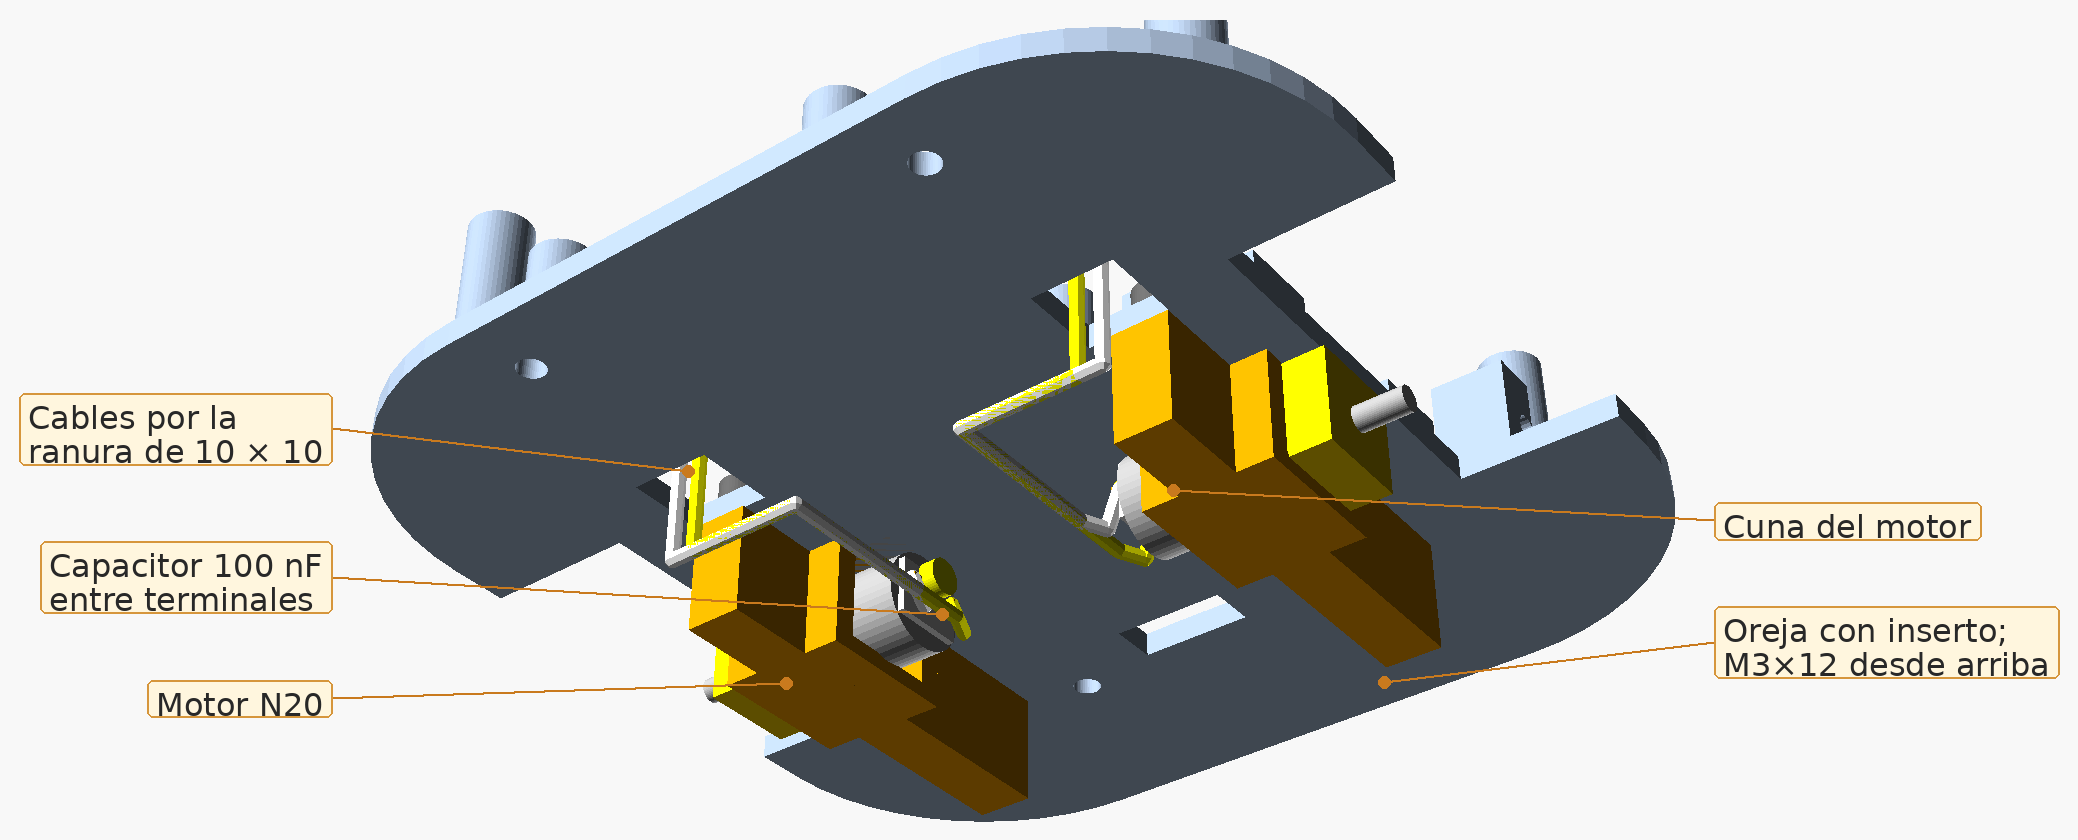
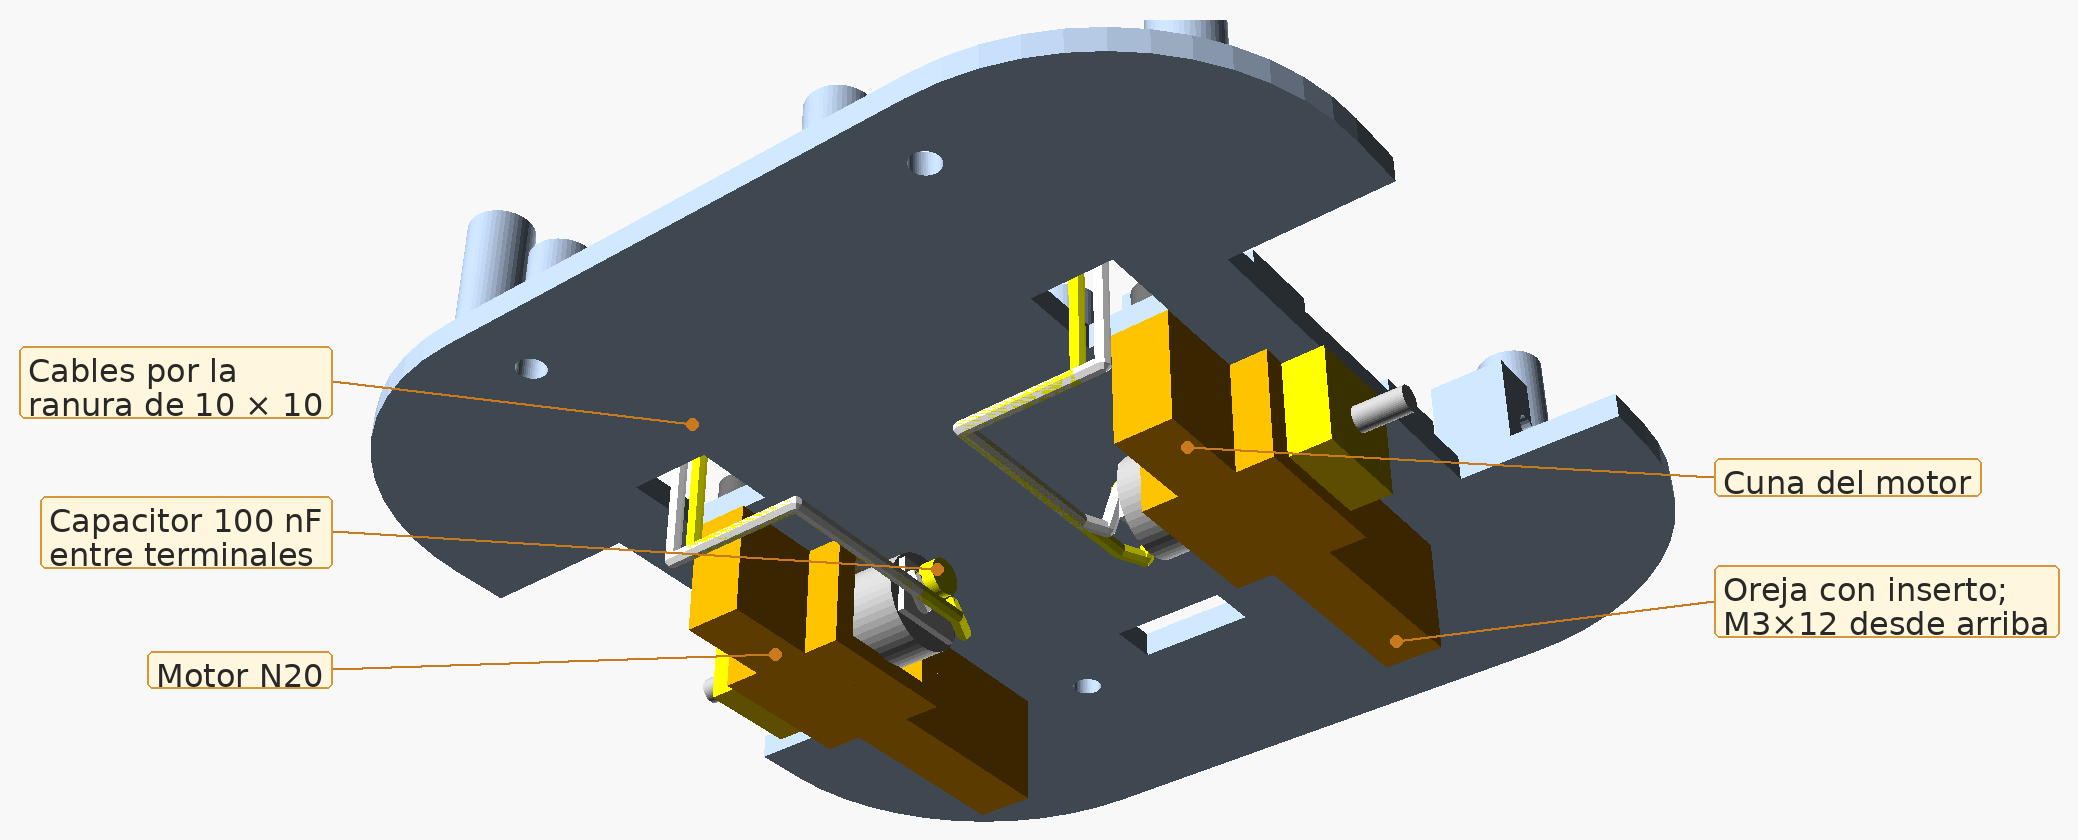
renders: etiquetas en progreso para las medidas nuevas
Claude-Session: https://claude.ai/code/session_017eD8xWXnvZZ2v6m3n2fvhH

diff --git a/chasis/renders.py b/chasis/renders.py
@@ -31,11 +31,29 @@ ARRIBA = (0, -25, 430, 0, 0, 60)
 LADO = (330, 0, 60, 0, 0, 45)
 
 # Puntos de referencia (mm, coordenadas del robot)
-Z1, ESP, SEP = 22, 3, 35
+D_RUEDA, A_RUEDA, MOT_L, MOT_H = 45, 17, 26.11, 11.94
+EJE_Z = D_RUEDA / 2
+ESP, SEP = 3, 35
+Z1 = EJE_Z + MOT_H / 2
 Z2 = Z1 + ESP + SEP
-ZP = Z2 + ESP + 9.5
+ZS = Z2 + ESP                                   # cara de arriba del piso 2
+ZP = ZS + 9.5
+UNO_Z = ZS + 6                                  # cara de abajo del PCB del UNO
+X_RUEDA_INT = 60 - A_RUEDA
+X_RUEDA = X_RUEDA_INT + A_RUEDA / 2             # centro de la rueda en X
+X_MOT_EXT = X_RUEDA_INT - 1.5
+X_MOT = X_MOT_EXT - MOT_L / 2
+X_MOT_INT = X_MOT_EXT - MOT_L
+CUNA_Z = Z1 - MOT_H - 2 + 0.3                   # fondo de la cuna del motor
+TOF_LADO = (43, 40)
+TOF_ATRAS = 0.3 + 2.5 + 14                      # centro de la ranura al final del dupont
+POSTE_F = (34, 55)                              # columna delantera derecha del piso 1
+BAT_XB = 70 / 2 + 0.2 + 1                       # tope de la bateria
+T_Z = Z1 + ESP + 19                             # conector T: fondo (sobre la bateria)
 L298_Y = -37.5
-BORNE_Z = Z1 + ESP + 5 + 1.6 + 4
+L298_Z = Z1 + ESP + 5                           # cara de abajo del PCB del L298N
+BORNE_Z = L298_Z + 1.6 + 4
+LOG_Z = L298_Z + 11                             # punta de los pines del header de logica
 XP = 35 / 2 + 1.1
 
 
@@ -67,7 +85,7 @@ def pin(n):
 
 
 def shield_z(placa):
-    return 70.6 + (11.5 if placa == "uno_r3" else 8.5)
+    return UNO_Z + 1.6 + (11.5 if placa == "uno_r3" else 8.5)
 
 
 def zhd(placa):
@@ -89,78 +107,78 @@ VISTAS = {
     "fig_atras": ({"PASO": 0, "PLACA": "nano"}, ATRAS, []),
     "fig_lado": ({"PASO": 0, "PLACA": "nano"}, LADO, []),
     "paso1": ({"PASO": 1}, ABAJO_ATRAS, [
-        ("Cuna del motor", (26.5, -12, 13), (230, 120)),
-        ("Motor N20", (-30, -6, 14), (-260, 60)),
-        ("Capacitor 100 nF\nentre terminales", (-12.5, 0, 19.5), (-250, -150)),
-        ("Cables por la\nranura de 10 × 10", (-27, -27, 30), (-180, -170)),
-        ("Oreja con inserto;\nM3×12 desde arriba", (26.5, 29, 10.5), (180, -160)),
+        ("Cuna del motor", (X_MOT, -12, CUNA_Z + 2.7), (230, 120)),
+        ("Motor N20", (-(X_MOT + 3.5), -6, CUNA_Z + 3.7), (-260, 60)),
+        ("Capacitor 100 nF\nentre terminales", (-(X_MOT_INT - 2), 0, Z1 - 2.5), (-250, -150)),
+        ("Cables por la\nranura de 10 × 10", (-27, -27, Z1 + ESP + 5), (-180, -170)),
+        ("Oreja con inserto;\nM3×12 desde arriba", (X_MOT, 29, CUNA_Z + 0.2), (180, -160)),
     ]),
     "paso2": ({"PASO": 2}, ABAJO_FRENTE, [
         ("TCS34725: entra deslizando\npor atrás, LED al suelo", (0, 28, 6), (280, 200)),
         ("Capucha (2 M3×8)", (-14, 46, 8), (-300, 140)),
         ("Patín delantero", (0, 48.5, 2.5), (-120, 230)),
         ("Patín trasero (2 M3×8)", (0, -52, 2), (230, -40)),
-        ("Rueda a presión\nen el eje", (-50, 8, 10), (-260, -80)),
+        ("Rueda a presión\nen el eje", (-X_RUEDA, 8, 10), (-260, -80)),
     ]),
     "paso3": ({"PASO": 3}, ATRAS, [
         ("OUT1-OUT2\nmotor izquierdo", (-21.5, -32.5, BORNE_Z), (-260, -40)),
         ("OUT3-OUT4\nmotor derecho", (21.5, -32.5, BORNE_Z), (230, -120)),
-        ("Poste con inserto\n+ M3×8", (18.5, -56, 28), (200, 120)),
-        ("Cables del motor por\nla ranura de su lado", (27, -26, 27), (260, 30)),
-        ("Quita los jumpers\nENA y ENB", (1, -21.5, 41), (-120, -230)),
+        ("Poste con inserto\n+ M3×8", (18.5, -56, L298_Z - 2), (200, 120)),
+        ("Cables del motor por\nla ranura de su lado", (27, -26, Z1 + 5), (260, 30)),
+        ("Quita los jumpers\nENA y ENB", (1, -21.5, LOG_Z), (-120, -230)),
     ]),
-    "det_l298": ({"PIEZA": "det_l298"}, (0, -45, 150, 0, -33, 30), [
+    "det_l298": ({"PIEZA": "det_l298"}, (0, -45, L298_Z + 120, 0, -33, L298_Z), [
         ("12V (batería)", (18, -16, BORNE_Z + 4), (170, -170)),
         ("GND", (13, -16, BORNE_Z + 4), (60, -230)),
         ("5V: no se usa", (8, -16, BORNE_Z + 4), (-60, -260)),
-        ("ENA", (1, -19, 41), (-80, -170)),
-        ("IN1 IN2 IN3 IN4", (-5.3, -19, 41), (-260, -150)),
-        ("ENB", (-11.7, -19, 41), (-300, -60)),
-        ("Jumper 5V-EN:\nse queda", (3.9, -18, 38), (240, -40)),
+        ("ENA", (1, -19, LOG_Z), (-80, -170)),
+        ("IN1 IN2 IN3 IN4", (-5.3, -19, LOG_Z), (-260, -150)),
+        ("ENB", (-11.7, -19, LOG_Z), (-300, -60)),
+        ("Jumper 5V-EN:\nse queda", (3.9, -18, L298_Z + 8), (240, -40)),
         ("OUT1 OUT2", (-21.5, -32.5, BORNE_Z), (-260, 60)),
         ("OUT3 OUT4", (21.5, -32.5, BORNE_Z), (240, 80)),
     ]),
     "paso4": ({"PASO": 4}, FRENTE, [
-        ("Batería 2S sobre velcro", (18, 7, 44), (260, -120)),
-        ("Conector T macho", (-18, 10, 51), (-150, -220)),
-        ("Balanceo (solo para\ncargar)", (-25, 20, 49), (-300, -60)),
-        ("Topes", (33.7, -6.7, 33), (250, 40)),
+        ("Batería 2S sobre velcro", (18, 7, T_Z), (260, -120)),
+        ("Conector T macho", (-18, 10, T_Z + 7), (-150, -220)),
+        ("Balanceo (solo para\ncargar)", (-25, 20, T_Z + 5), (-300, -60)),
+        ("Topes", (BAT_XB, -6.7, Z1 + ESP + 8), (250, 40)),
     ]),
     "paso5": ({"PASO": 5}, FRENTE, [
-        ("VL53L0X frente", (0, 54.5, 30), (230, 160)),
-        ("VL53L0X izquierdo", (-50.5, 34.5, 30), (-230, 130)),
-        ("VL53L0X derecho", (50.5, 34.5, 30), (230, 60)),
-        ("5 dupont (GPIO1 libre),\nantes de meterlo", (0, 50, 35), (-80, 230)),
+        ("VL53L0X frente", (0, 54.5, Z1 + ESP + 5), (230, 160)),
+        ("VL53L0X izquierdo", (-(TOF_LADO[0] + 0.5), TOF_LADO[1], Z1 + ESP + 5), (-230, 130)),
+        ("VL53L0X derecho", (TOF_LADO[0] + 0.5, TOF_LADO[1], Z1 + ESP + 5), (230, 60)),
+        ("5 dupont (GPIO1 libre),\nantes de meterlo", (0, 50, Z1 + ESP + 10), (-80, 230)),
         ("Cables hacia arriba", (23, 33.2, 62), (250, -150)),
     ]),
     "paso6": ({"PASO": 6}, ATRAS, [
-        ("Columna impresa\n(inserto arriba)", (48, -40, 45), (220, 60)),
-        ("Dupont en ENA … ENB", (-5, -19, 47), (-200, -220)),
-        ("Cables hacia arriba", (-5, -3, 62), (120, -230)),
+        ("Columna impresa\n(inserto arriba)", (48, -40, Z1 + 23), (220, 60)),
+        ("Dupont en ENA … ENB", (-5, -19, L298_Z + 17), (-200, -220)),
+        ("Cables hacia arriba", (-5, -3, Z2 + 2), (120, -230)),
     ]),
-    "paso7": ({"PIEZA": "sub_piso2", "PLACA": "nano"}, (60, -170, 230, 0, -12, 70), [
+    "paso7": ({"PIEZA": "sub_piso2", "PLACA": "nano"}, (60, -170, Z2 + 170, 0, -12, Z2 + 10), [
         ("Nano: USB hacia atrás", (-19.9, -52, ZP + 5), (-260, 80)),
         ("Bus 5V (columna 4)", (hx(XP, 1) + 3, hy(13), ZP + 1), (250, 0)),
         ("Bus GND (columna 1)", (hx(XP, 1) + 3, hy(16), ZP + 1), (250, -110)),
         ("Bus SDA (columna 10)", (hx(XP, 1) + 3, hy(7), ZP + 1), (250, 110)),
         ("Bus SCL (columna 7)", (hx(XP, 1) + 3, hy(10), ZP + 1), (250, 50)),
         ("Puentes del Nano\nal bus", (-2, hy(11), ZP + 2), (-60, 260)),
-        ("OLED, pines al fondo", (0, 39.4, Z2 + ESP + 3), (-200, -200)),
-        ("Botón", (-38, 5, Z2 + ESP + 6), (-200, -40)),
-        ("Interruptor", (38, 5, Z2 + ESP + 9), (200, -120)),
-        ("Ranuras de cables", (26.5, 34.5, Z2 + ESP), (220, -200)),
+        ("OLED, pines al fondo", (0, 39.4, ZS + 3), (-200, -200)),
+        ("Botón", (-38, 5, ZS + 6), (-200, -40)),
+        ("Interruptor", (38, 5, ZS + 10), (200, -120)),
+        ("Ranuras de cables", (26.5, TOF_LADO[1], ZS), (220, -200)),
     ]),
     "paso8": ({"PASO": 8, "PLACA": "nano"}, FRENTE, [
         ("Piso 2 armado", (-40, 20, Z2 + ESP), (-230, -120)),
-        ("Cables de sensores\npor las ranuras", (-26.5, 30, Z2 + ESP + 4), (-150, -250)),
-        ("M3×8 en cada\ncolumna", (42, 50, Z2 + ESP + 3), (220, -60)),
+        ("Cables de sensores\npor las ranuras", (-TOF_LADO[0] + TOF_ATRAS + 4, TOF_LADO[1] - 4.5, ZS + 4), (-150, -250)),
+        ("M3×8 en cada\ncolumna", (POSTE_F[0], POSTE_F[1], ZS + 3), (220, -60)),
     ]),
-    "det_arnes": ({"PIEZA": "det_arnes"}, (200, -150, 170, 10, -3, 45), [
-        ("Interruptor: rojo a una pata\nexterior, 2 naranjas al centro", (38, 5, 46), (180, -200)),
-        ("Conector T hembra", (-6, 10, 51), (-200, -180)),
+    "det_arnes": ({"PIEZA": "det_arnes"}, (200, -150, Z1 + 148, 10, -3, Z1 + 23), [
+        ("Interruptor: rojo a una pata\nexterior, 2 naranjas al centro", (38, 5, Z2 - 14), (180, -200)),
+        ("Conector T hembra", (-6, 10, T_Z + 7), (-200, -180)),
         ("Naranja a 12V", (18, -15, BORNE_Z), (60, 200)),
         ("2 negros en GND:\nconector T y Nano", (13, -15, BORNE_Z), (-260, 170)),
-        ("Naranja y negro suben\npor la ranura central", (20, -3, 58), (-160, -260)),
+        ("Naranja y negro suben\npor la ranura central", (20, -3, Z2 - 2), (-160, -260)),
     ]),
     "paso9": ({"PASO": 9, "PLACA": "nano"}, ARRIBA, [
         ("XSHUT → A0 A1 A2", (hx(-XP, 4), pin_nano(4), ZP + 18), (240, -20)),
@@ -169,41 +187,41 @@ VISTAS = {
         ("VIN y GND\n(cable rígido)", (hx(-XP, 4), pin_nano(14), ZP + 3), (-60, -260)),
         ("Sensores → bus", (hx(XP, 2), hy(13), ZP + 17), (240, 60)),
     ]),
-    "paso10": ({"PIEZA": "det_arnes", "UNIDO": "true"}, (-140, 120, 150, -12, 10, 45), [
-        ("Une el conector T", (-12, 10, 51), (200, -180)),
-        ("Interruptor en OFF", (38, 5, 60), (220, 40)),
+    "paso10": ({"PIEZA": "det_arnes", "UNIDO": "true"}, (-140, 120, Z1 + 128, -12, 10, Z1 + 23), [
+        ("Une el conector T", (-12, 10, T_Z + 7), (200, -180)),
+        ("Interruptor en OFF", (38, 5, Z2), (220, 40)),
     ]),
     "det_insertos": ({"PIEZA": "det_insertos"}, (230, -260, 300, 40, 0, 10), [
         ("Columnas: 4", (48, -40, 38), (-200, -120)),
         ("Postes del L298N: 4", (-18.5, -56, 8), (-220, 60)),
-        ("Cunas: 2 c/u", (80, 39, 11.7), (200, -150)),
-        ("Capucha: 2", (107, 60, 20), (200, -40)),
-        ("Patín: 2", (116, -50, 22), (200, 80)),
+        ("Cunas: 2 c/u", (80, 39, 2 + MOT_H - 0.3), (200, -150)),
+        ("Capucha: 2", (107, 60, Z1 - 2), (200, -40)),
+        ("Patín: 2", (116, -50, Z1), (200, 80)),
     ]),
     # ---- UNO R3 / UNO Q: las piezas impresas son las mismas; la Q solo agrega mastil, camara, repisa, hub y clip ----
-    "r3_iso": ({"PLACA": "uno_r3"}, (250, 290, 250, 0, 0, 60), [
-        ("Arduino UNO R3\n(4 M3×8 a insertos)", (34.2, -30, 70), (-250, 180)),
-        ("Proto Shield + mini\nprotoboard: bus I2C", (30, -45, 83), (-250, 160)),
+    "r3_iso": ({"PLACA": "uno_r3"}, (250, 290, Z2 + 190, 0, 0, Z2), [
+        ("Arduino UNO R3\n(4 M3×8 a insertos)", (34.2, -30, UNO_Z + 1), (-250, 180)),
+        ("Proto Shield + mini\nprotoboard: bus I2C", (30, -45, shield_z("uno_r3") + 1), (-250, 160)),
         ("Tiras hembra del shield:\ndupont de L298N y botón", (20, -7.2, zhd("uno_r3")), (-250, -120)),
-        ("OLED en el marco\ndel piso 2", (0, 39.4, 66), (230, 20)),
-        ("Cables de sensores:\nsuben por las ranuras", (-29.2, 34, 70), (250, -20)),
-        ("VL53L0X frente", (0, 54.5, 30), (230, 170)),
-        ("Interruptor", (38, 5, 73), (-230, 80)),
+        ("OLED en el marco\ndel piso 2", (0, 39.4, ZS + 3), (230, 20)),
+        ("Cables de sensores:\nsuben por las ranuras", (-TOF_LADO[0] + TOF_ATRAS + 4, TOF_LADO[1], ZS + 7), (250, -20)),
+        ("VL53L0X frente", (0, 54.5, Z1 + ESP + 5), (230, 170)),
+        ("Interruptor", (38, 5, ZS + 10), (-230, 80)),
     ]),
-    "r3_atras": ({"PLACA": "uno_r3"}, (-250, -290, 250, 0, 0, 60), [
+    "r3_atras": ({"PLACA": "uno_r3"}, (-250, -290, Z2 + 190, 0, 0, Z2), [
         ("Header de potencia: VIN,\nGND, 5V (R3) o 3V3 (Q)", (pin("VIN")[0], pin("VIN")[1], zhd("uno_r3")), (250, -230)),
         ("A0 A1 A2: XSHUT\nde los VL53L0X", (pin("A1")[0], pin("A1")[1], zhd("uno_r3")), (250, -150)),
-        ("USB-B del R3", (-34.3, -19.9, 77), (-250, 40)),
-        ("L298N", (0, -58, 40), (250, 90)),
+        ("USB-B del R3", (-34.3, -19.9, UNO_Z + 8), (-250, 40)),
+        ("L298N", (0, -58, L298_Z + 10), (250, 90)),
     ]),
     "q_iso": ({"PLACA": "unoq"}, (300, -330, 330, 0, 5, 85), [
-        ("Arduino UNO Q\n(4 M3×8 a insertos)", (30, -50, 72), (-250, 150)),
-        ("Proto Shield con mini\nprotoboard: bus I2C", (-15, -31, 91), (230, 140)),
+        ("Arduino UNO Q\n(4 M3×8 a insertos)", (30, -50, UNO_Z + 3), (-250, 150)),
+        ("Proto Shield con mini\nprotoboard: bus I2C", (-15, -31, zbb("unoq") + 0.8), (230, 140)),
         ("Cámara UVC 32 × 32\nlente M12 gran angular", (0, 30, 165), (-260, -60)),
         ("Mástil PTR 10 o 15\n(medida pendiente)", (7.5, 10.5, 120), (-260, 40)),
         ("Hub USB en repisa\n(4 M3×8 a insertos)", (20, 39.5, 96.5), (240, -40)),
         ("OLED de cabeza en el\nclip del mástil", (0, -3, 120), (-240, -20)),
-        ("Cable USB-C en ángulo", (-38, -20, 76), (-220, 60)),
+        ("Cable USB-C en ángulo", (-38, -20, UNO_Z + 7), (-220, 60)),
     ]),
     "q_lado": ({"PLACA": "unoq"}, (-560, 40, 150, 0, 40, 85), [
         ("Lente a 150 mm,\n25° hacia abajo", (0, 30, 150), (220, -120)),
@@ -211,30 +229,30 @@ VISTAS = {
         ("El piso se ve desde\n≈ 3 cm frente al robot", (0, 92, 0), (-200, 60)),
         ("Hub: queda bajo\nel campo de visión", (0, 54, 96), (230, 120)),
     ]),
-    "r3_paso7": ({"PIEZA": "sub_piso2", "PLACA": "uno_r3"}, (170, -170, 210, 0, -12, 70), [
-        ("UNO R3 sobre 4 postes\ncon inserto (4 M3×8)", (34.2, -40, 70), (250, 100)),
-        ("Proto Shield: sus pines\nentran en los headers", (-34.3, -30, 82), (-250, 120)),
+    "r3_paso7": ({"PIEZA": "sub_piso2", "PLACA": "uno_r3"}, (170, -170, Z2 + 150, 0, -12, Z2 + 10), [
+        ("UNO R3 sobre 4 postes\ncon inserto (4 M3×8)", (34.2, -40, UNO_Z + 1), (250, 100)),
+        ("Proto Shield: sus pines\nentran en los headers", (-34.3, -30, shield_z("uno_r3")), (-250, 120)),
         ("Mini protoboard 170", (0, -31, zbb("uno_r3")), (-250, -40)),
         ("Puentes del bus", (bb(6, 5)[0], bb(6, 5)[1], zbb("uno_r3") + 2.5), (250, -60)),
-        ("OLED en su marco\n(pines al fondo)", (0, 39.4, 66), (-230, -180)),
-        ("Botón", (-38, 5, 70), (-230, -80)),
-        ("Interruptor", (38, 5, 73), (230, -180)),
+        ("OLED en su marco\n(pines al fondo)", (0, 39.4, ZS + 3), (-230, -180)),
+        ("Botón", (-38, 5, ZS + 7), (-230, -80)),
+        ("Interruptor", (38, 5, ZS + 10), (230, -180)),
     ]),
     "r3_paso8": ({"PASO": 8, "PLACA": "uno_r3"}, FRENTE, [
         ("Piso 2 armado, sobre las\ncolumnas (4 M3×8)", (-40, 20, Z2 + ESP), (-230, -120)),
-        ("Cables de sensores\npor las ranuras", (-26.5, 30, Z2 + ESP + 4), (-150, -250)),
+        ("Cables de sensores\npor las ranuras", (-TOF_LADO[0] + TOF_ATRAS + 4, TOF_LADO[1] - 4.5, ZS + 4), (-150, -250)),
         ("Cables de potencia y\nlógica: ranura central", (20, -3, Z2 + ESP + 2), (-230, 40)),
     ]),
-    "r3_paso9": ({"PASO": 9, "PLACA": "uno_r3"}, (190, -250, 250, 0, -25, 90), [
+    "r3_paso9": ({"PASO": 9, "PLACA": "uno_r3"}, (190, -250, Z2 + 190, 0, -25, Z2 + 30), [
         ("XSHUT → A0 A1 A2", (pin("A1")[0], pin("A1")[1], zhd("uno_r3") + 14), (240, -60)),
         ("L298N → D5 … D10", (pin("D8")[0], pin("D8")[1], zhd("uno_r3") + 14), (-240, -170)),
         ("Botón → D2 y GND", (pin("D2")[0], pin("D2")[1], zhd("uno_r3") + 14), (240, -170)),
         ("VIN y GND\n(potencia)", (pin("VIN")[0], pin("VIN")[1], zhd("uno_r3") + 1.2), (-240, 60)),
         ("Sensores → bus", (bb(8, 8)[0], bb(8, 8)[1], zbb("uno_r3") + 14), (240, 60)),
     ]),
-    "r3_paso10": ({"PIEZA": "det_arnes", "UNIDO": "true"}, (-140, 120, 150, -12, 10, 45), [
-        ("Une el conector T", (-12, 10, 51), (200, -180)),
-        ("Interruptor en OFF", (38, 5, 60), (220, 40)),
+    "r3_paso10": ({"PIEZA": "det_arnes", "UNIDO": "true"}, (-140, 120, Z1 + 128, -12, 10, Z1 + 23), [
+        ("Une el conector T", (-12, 10, T_Z + 7), (200, -180)),
+        ("Interruptor en OFF", (38, 5, Z2), (220, 40)),
     ]),
     "q_paso11": ({"PASO": 11, "PLACA": "unoq"}, (300, -330, 330, 0, 5, 85), [
         ("Mástil (PTR)", (7.5, 10.5, 120), (-250, 40)),
@@ -261,7 +279,7 @@ VISTAS = {
         ("Repisa sobre 4 postes", (-52, 26, 84.5), (-240, 60)),
         ("Hub → USB-C del UNO Q", (-51.5, 30, 90.5), (-240, -40)),
         ("Cámara → hub", (13, 40, 102.5), (240, 120)),
-        ("USB-C del UNO Q", (-38, -20, 75), (-240, 160)),
+        ("USB-C del UNO Q", (-38, -20, UNO_Z + 6), (-240, 160)),
     ]),
     "placa_x2d": ({"PIEZA": "placa_vista"}, (128, 127, 720, 128, 128, 0), []),
 }
